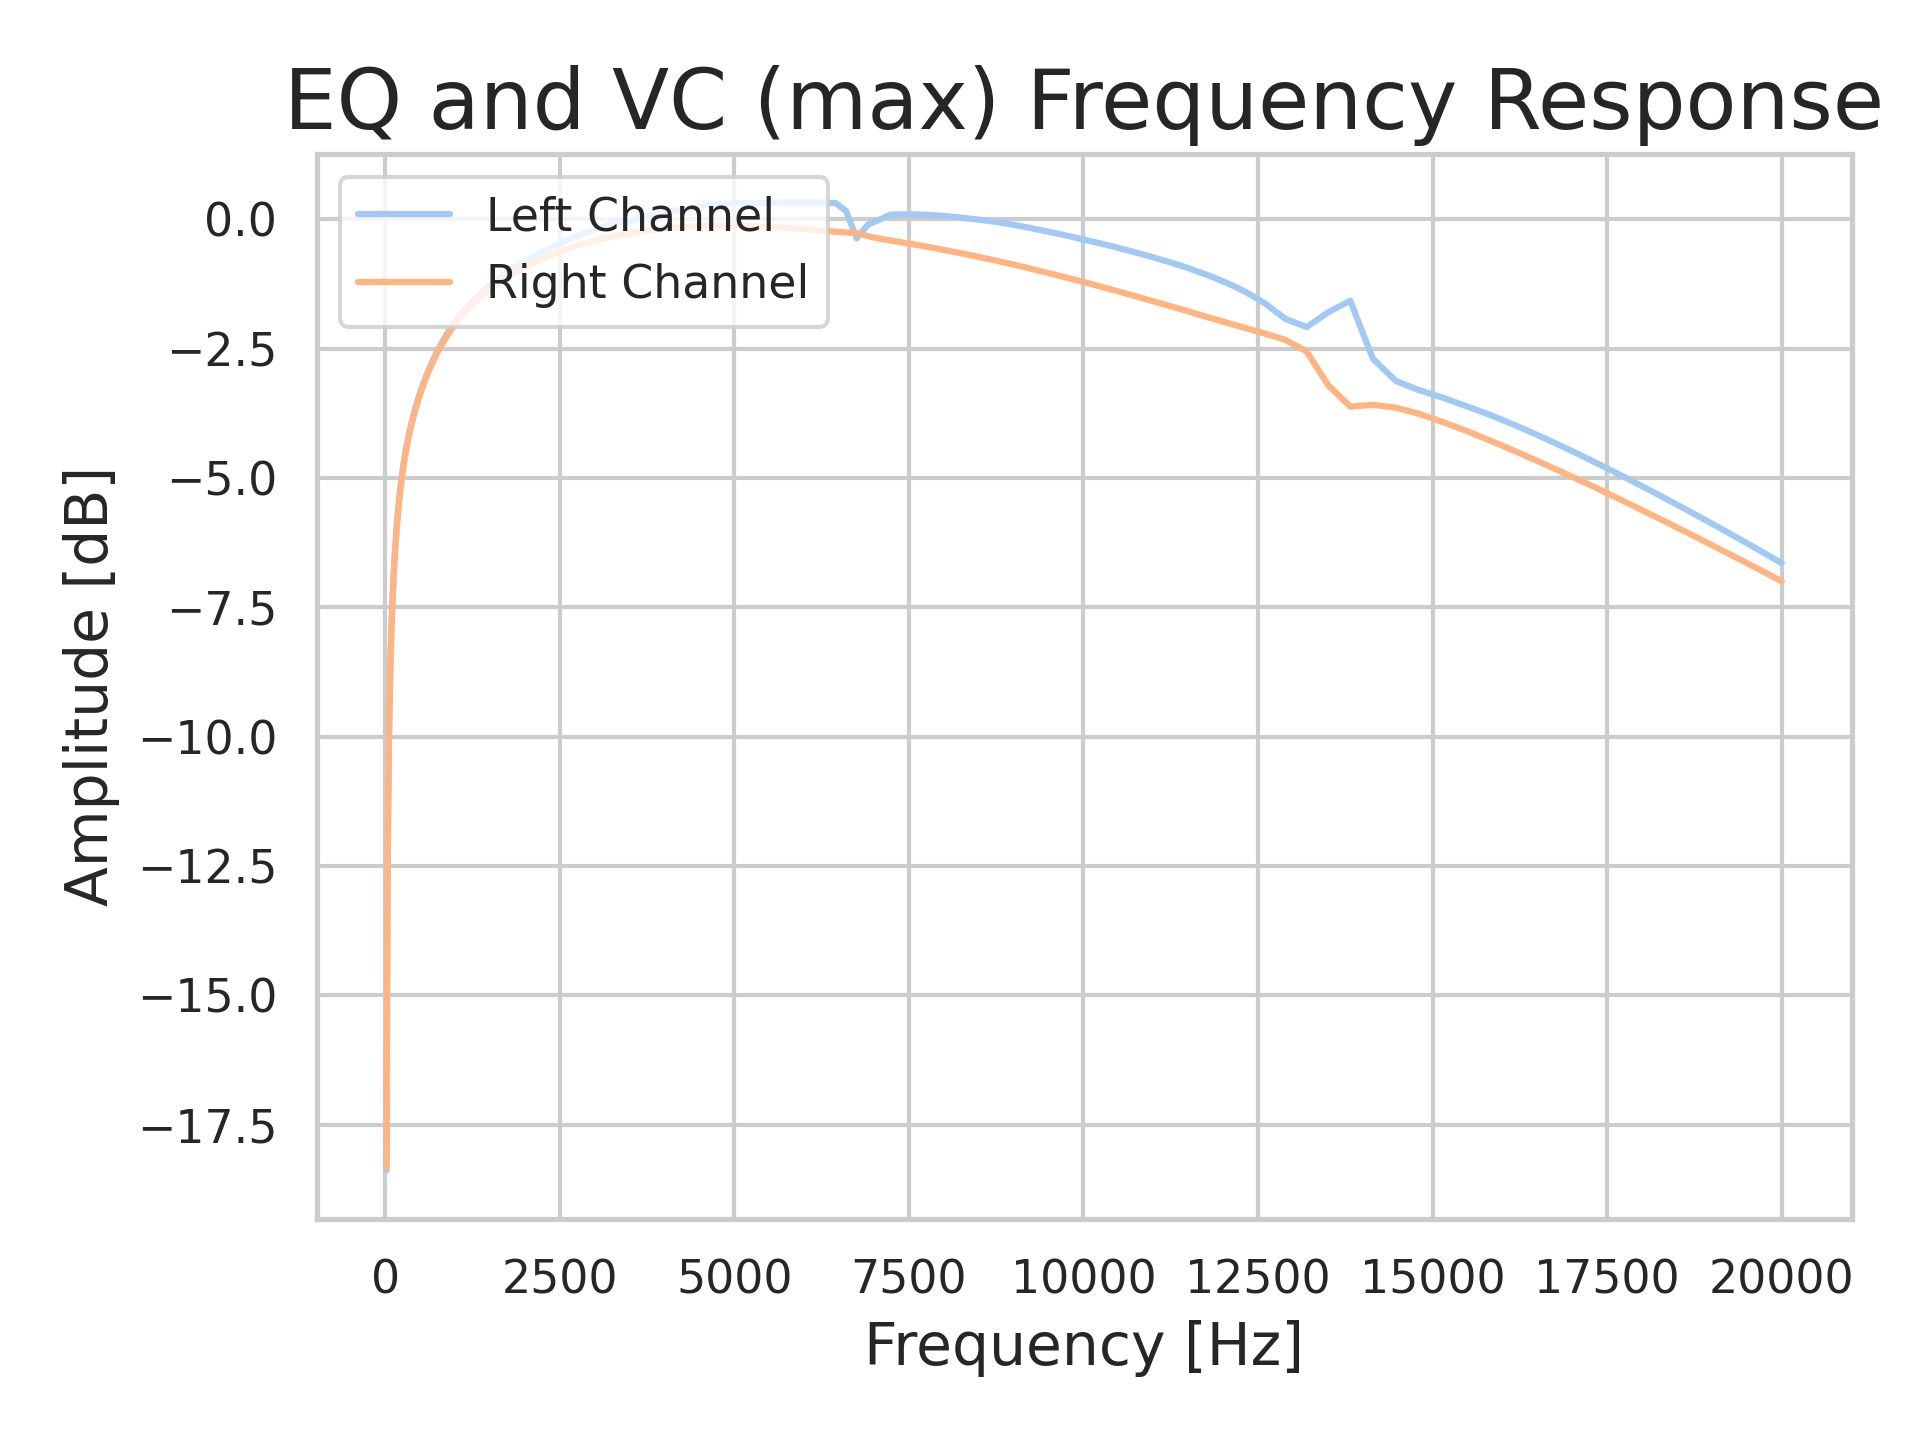
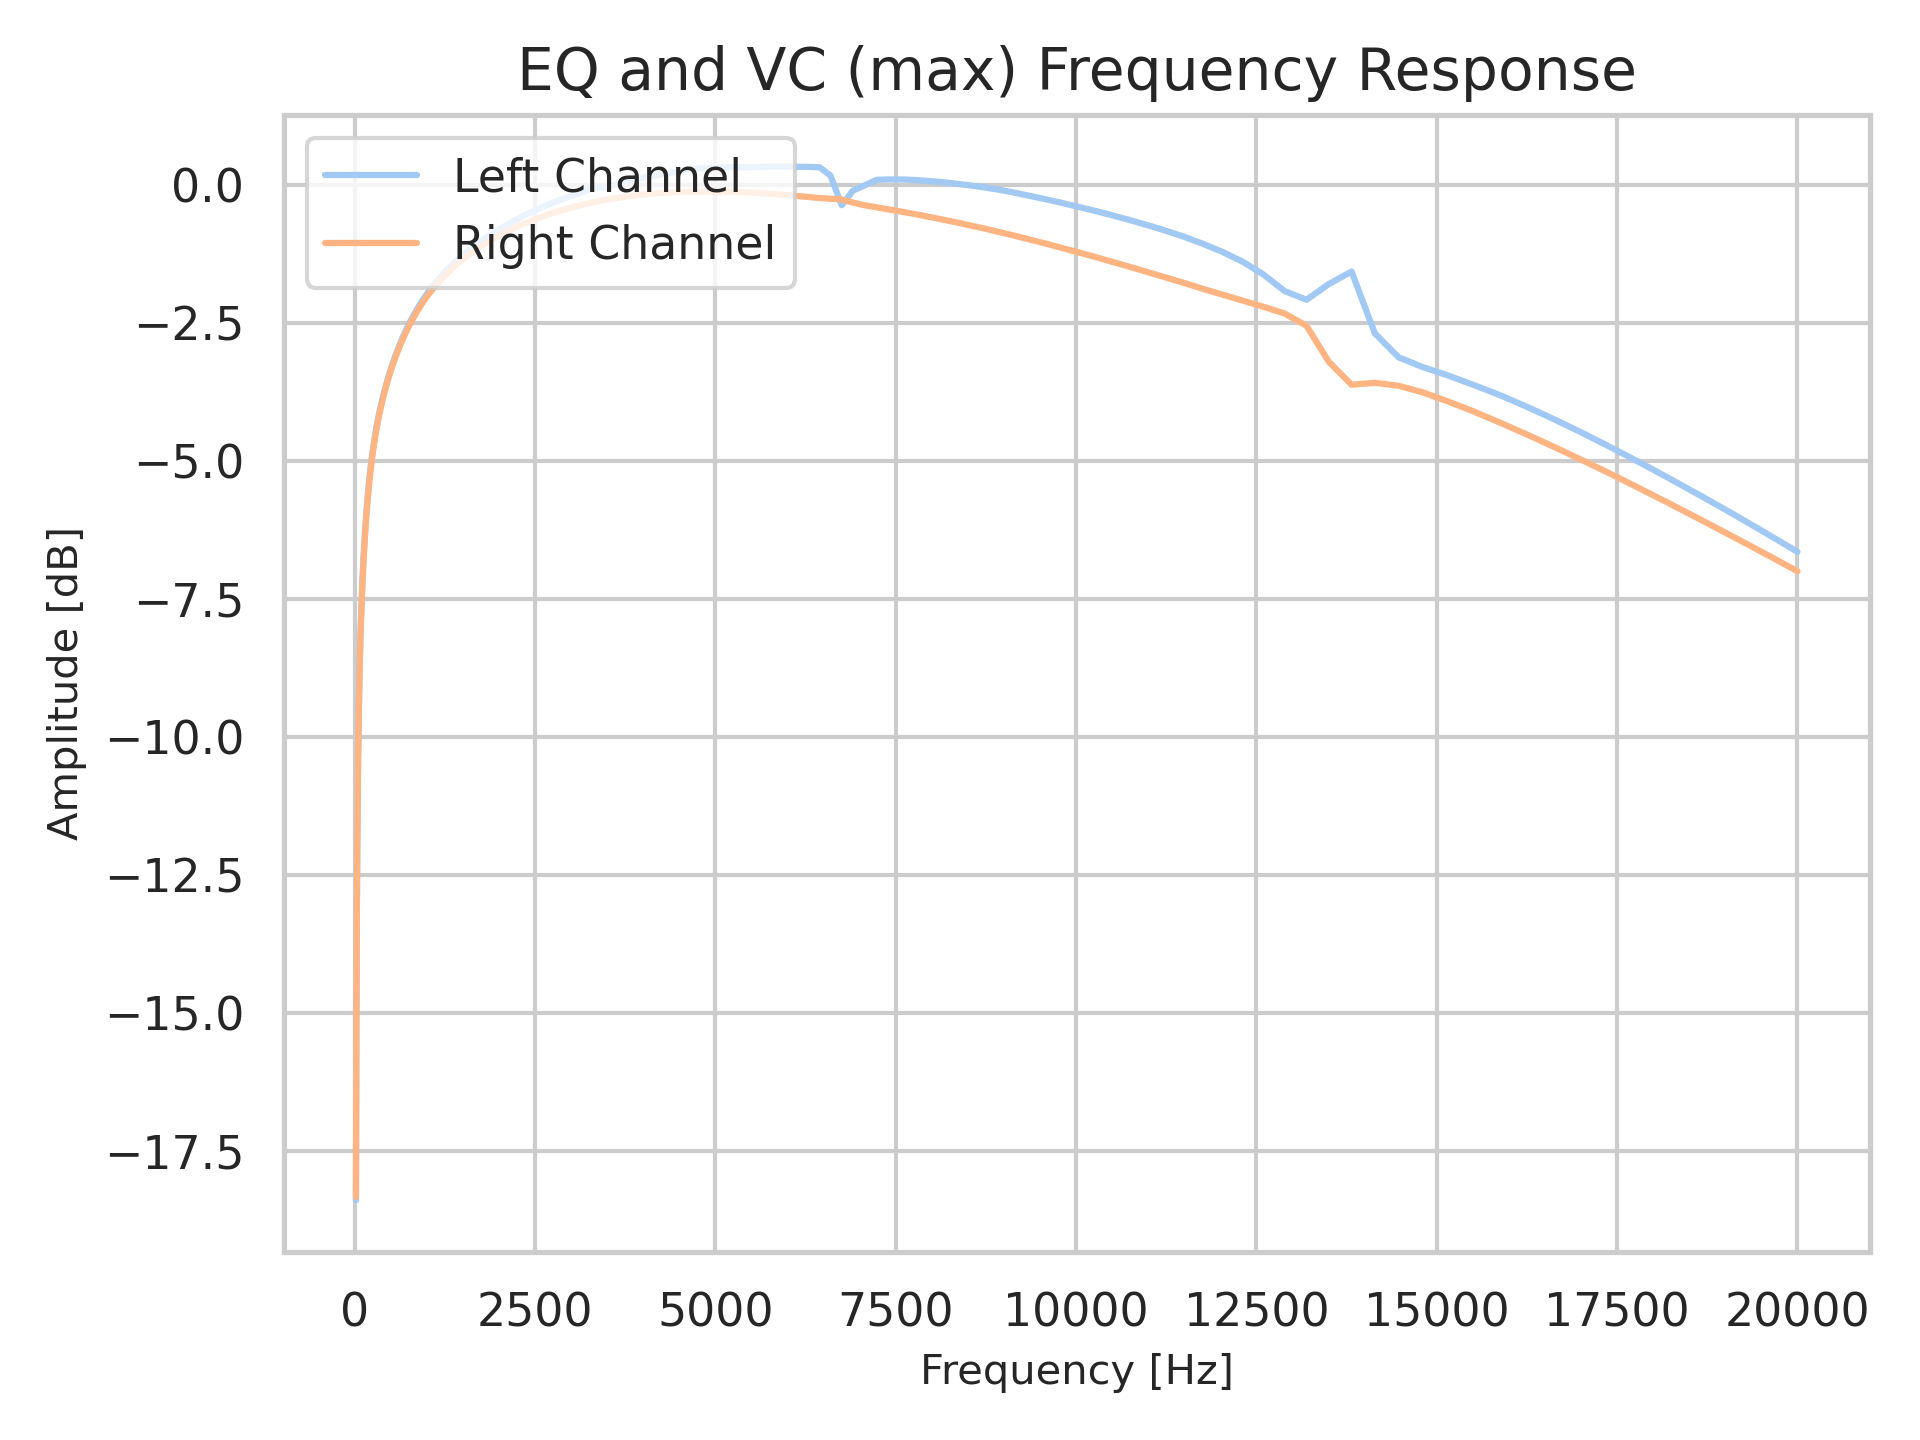
change figure font size

Changed region(s): [[0.0312, 0.0312, 1.0, 0.9688]]

diff --git a/integration_test/audio_analyser_plot.py b/integration_test/audio_analyser_plot.py
@@ -58,9 +58,9 @@ sns.set_palette("pastel")  # Other options: "muted", "bright", "deep", etc.
 sns.set_palette("pastel")  # Other options: "muted", "bright", "deep", etc.
 
 # Customize matplotlib font settings
-plt.rc('font', size=14)  # Sets the default font size
-plt.rc('axes', titlesize=20)  # Font size of the axes title
-plt.rc('axes', labelsize=14)  # Font size of the x and y labels
+plt.rc('font', size=10)  # Sets the default font size
+plt.rc('axes', titlesize=14)  # Font size of the axes title
+plt.rc('axes', labelsize=10)  # Font size of the x and y labels
 
 # Create a plot to demonstrate the style
 fig, ax = plt.subplots()
